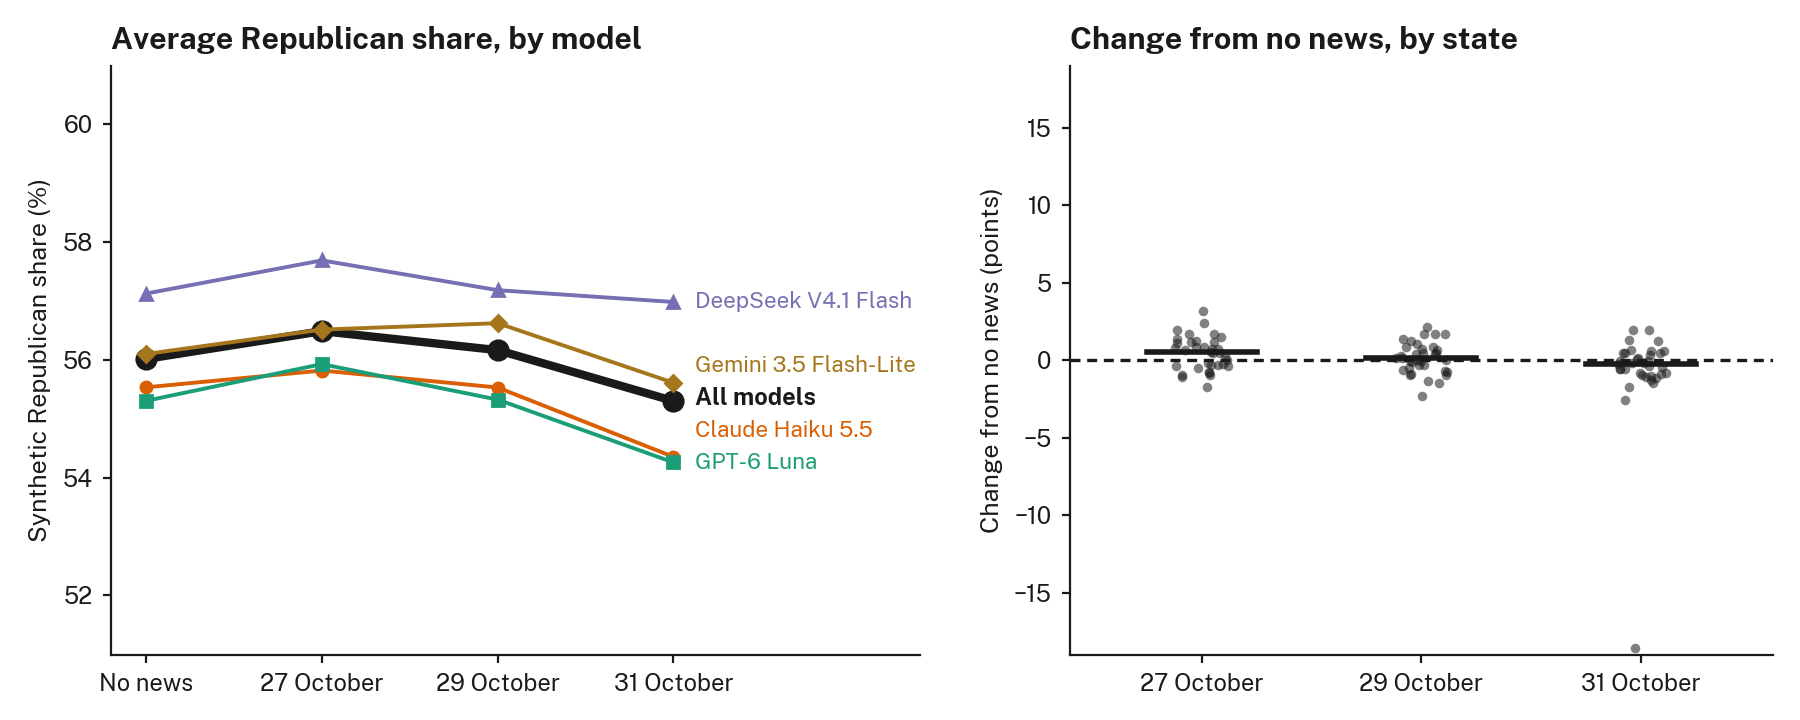
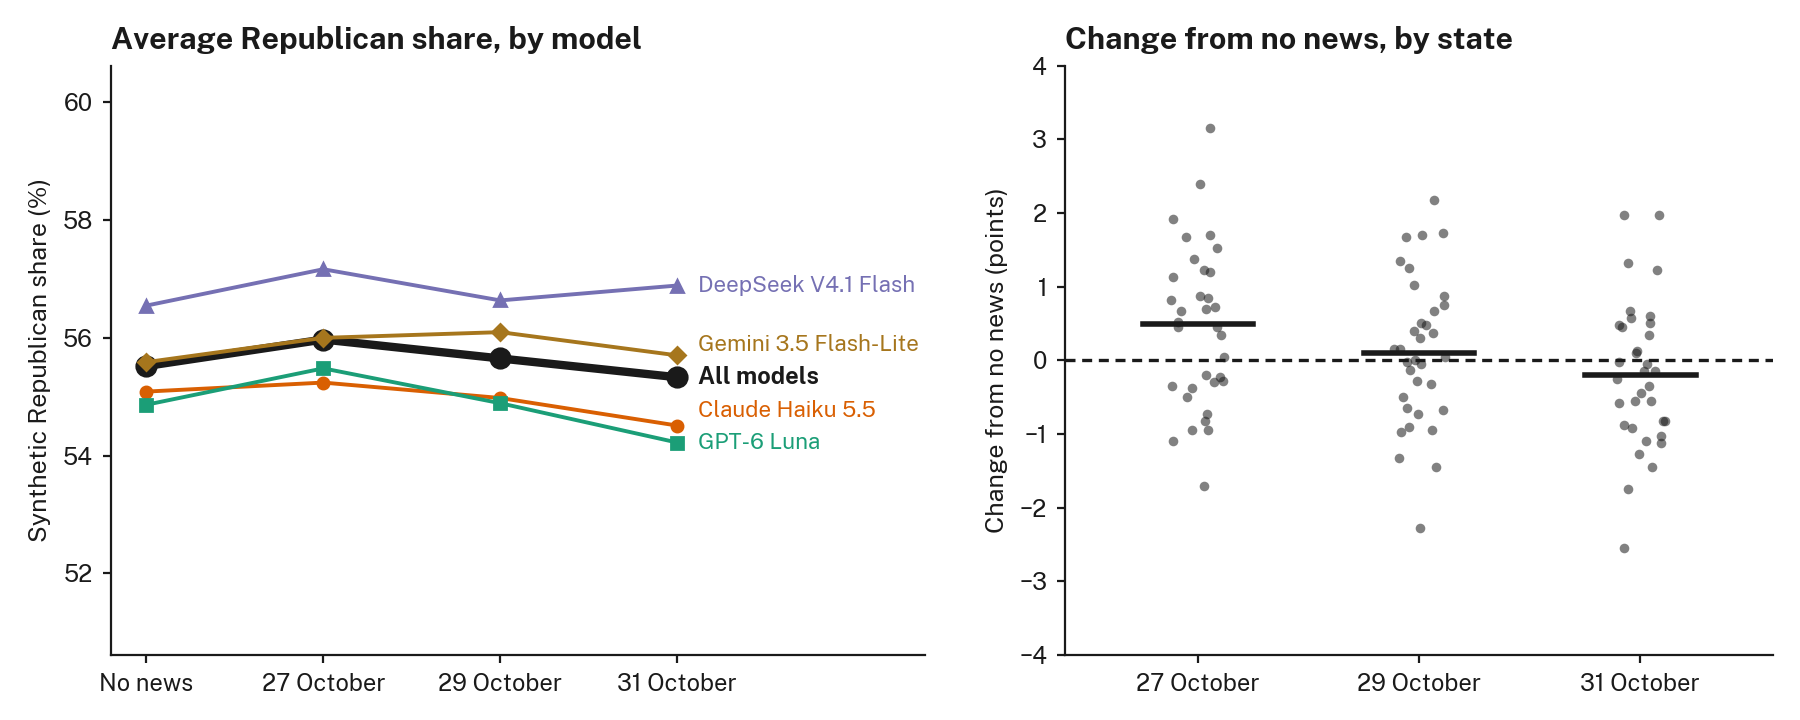
Leave Montana out of the news comparison
Montana's left candidate changed from the Democrat Alani Bankhead (27 and
29 October and the no-news run) to the independent Seth Bodnar (31
October), so its change from the no-news run is not an effect of the
news: Montana alone moved -18.5 points on 31 October. Script 16b now
compares 34 states on every day. The news effect on 31 October is -0.2
points instead of -0.7; 27 and 29 October barely change (+0.5, +0.1).

diff --git a/scripts/16b-compare_runs.py b/scripts/16b-compare_runs.py
@@ -103,11 +103,16 @@ for r in by_run[by_run["run"] != "nonews"].itertuples():   # dated runs only; th
 (OUT / "runs.md").write_text("\n".join(md) + "\n")
 
 #### 2. Synthetic share before any poll correction, by model and run ####
+# Montana is left out of the news comparison on every day: its left candidate changed from the
+# Democrat Alani Bankhead (27 and 29 October and the no-news run) to the independent Seth Bodnar
+# (31 October), so its change from the no-news run is not an effect of the news.
+NEWS_EXCLUDE = ["MT"]
 share = {}
 for run in runs:
     comp = pd.read_csv(config.RESULTS / f"run_{run}" / "state_comparison_uncalibrated.csv")
+    comp = comp[~comp["state"].isin(NEWS_EXCLUDE)]
     cols = [c for c in comp.columns if c.startswith("model_")]
-    share[run] = comp[cols].mean().rename(lambda c: c.removeprefix("model_"))   # plain mean over the 35 states
+    share[run] = comp[cols].mean().rename(lambda c: c.removeprefix("model_"))   # plain mean over the 34 states
 news = pd.DataFrame(share)
 models = [m for m in config.MODEL_LABELS if m in news.index] + sorted(set(news.index) - set(config.MODEL_LABELS))
 news = news.loc[models]
@@ -125,7 +130,7 @@ for m, r in republican_news.iterrows():
 (OUT / "news.md").write_text("\n".join(md) + "\n")
 
 #### 2b. Figure: the synthetic share in each setting, and each state's change from no news ####
-# Left: mean over the 35 states for each model (config.MODEL_COLOURS, labelled at the right) and all models (black),
+# Left: mean over the 34 states (Montana left out, see section 2) for each model (config.MODEL_COLOURS, labelled at the right) and all models (black),
 # in the order no news, 27, 29, 31 October. Right (when the no-news run exists): each state's change
 # from no news, all models pooled, one dot per state. Saved as figures/run_<RUN>/news_effect.png.
 import matplotlib
@@ -138,6 +143,7 @@ xlab = ["No news" if r == "nonews" else label(r) for r in order]
 per_state = {}
 for run in order:
     comp = pd.read_csv(config.RESULTS / f"run_{run}" / "state_comparison_uncalibrated.csv").set_index("state")
+    comp = comp.drop(index=NEWS_EXCLUDE, errors="ignore")
     per_state[run] = 1 - comp[[c for c in comp.columns if c.startswith("model_")]].mean(axis=1)   # models pooled
 has_base = "nonews" in runs and len(news_runs) > 0
 fig, axes = plt.subplots(1, 2 if has_base else 1, figsize=(9, 3.6) if has_base else (5.5, 3.6),

diff --git a/data/03-results/comparison/news.md b/data/03-results/comparison/news.md
@@ -1,7 +1,7 @@
 | Model | 27 October | 29 October | 31 October | No news (baseline) | 27 October minus no news | 29 October minus no news | 31 October minus no news |
 |---|---:|---:|---:|---:|---:|---:|---:|
-| Claude Haiku 5.5 | 56 | 56 | 54 | 56 | +0.3 | 0.0 | −1.2 |
-| GPT-6 Luna | 56 | 55 | 54 | 55 | +0.6 | 0.0 | −1.0 |
-| DeepSeek V4.1 Flash | 58 | 57 | 57 | 57 | +0.6 | +0.1 | −0.1 |
-| Gemini 3.5 Flash-Lite | 57 | 57 | 56 | 56 | +0.4 | +0.5 | −0.5 |
-| **All models** | 56 | 56 | 55 | 56 | +0.5 | +0.1 | −0.7 |
+| Claude Haiku 5.5 | 55 | 55 | 55 | 55 | +0.2 | −0.1 | −0.6 |
+| GPT-6 Luna | 55 | 55 | 54 | 55 | +0.6 | 0.0 | −0.6 |
+| DeepSeek V4.1 Flash | 57 | 57 | 57 | 57 | +0.6 | +0.1 | +0.3 |
+| Gemini 3.5 Flash-Lite | 56 | 56 | 56 | 56 | +0.4 | +0.5 | +0.1 |
+| **All models** | 56 | 56 | 55 | 56 | +0.5 | +0.1 | −0.2 |
